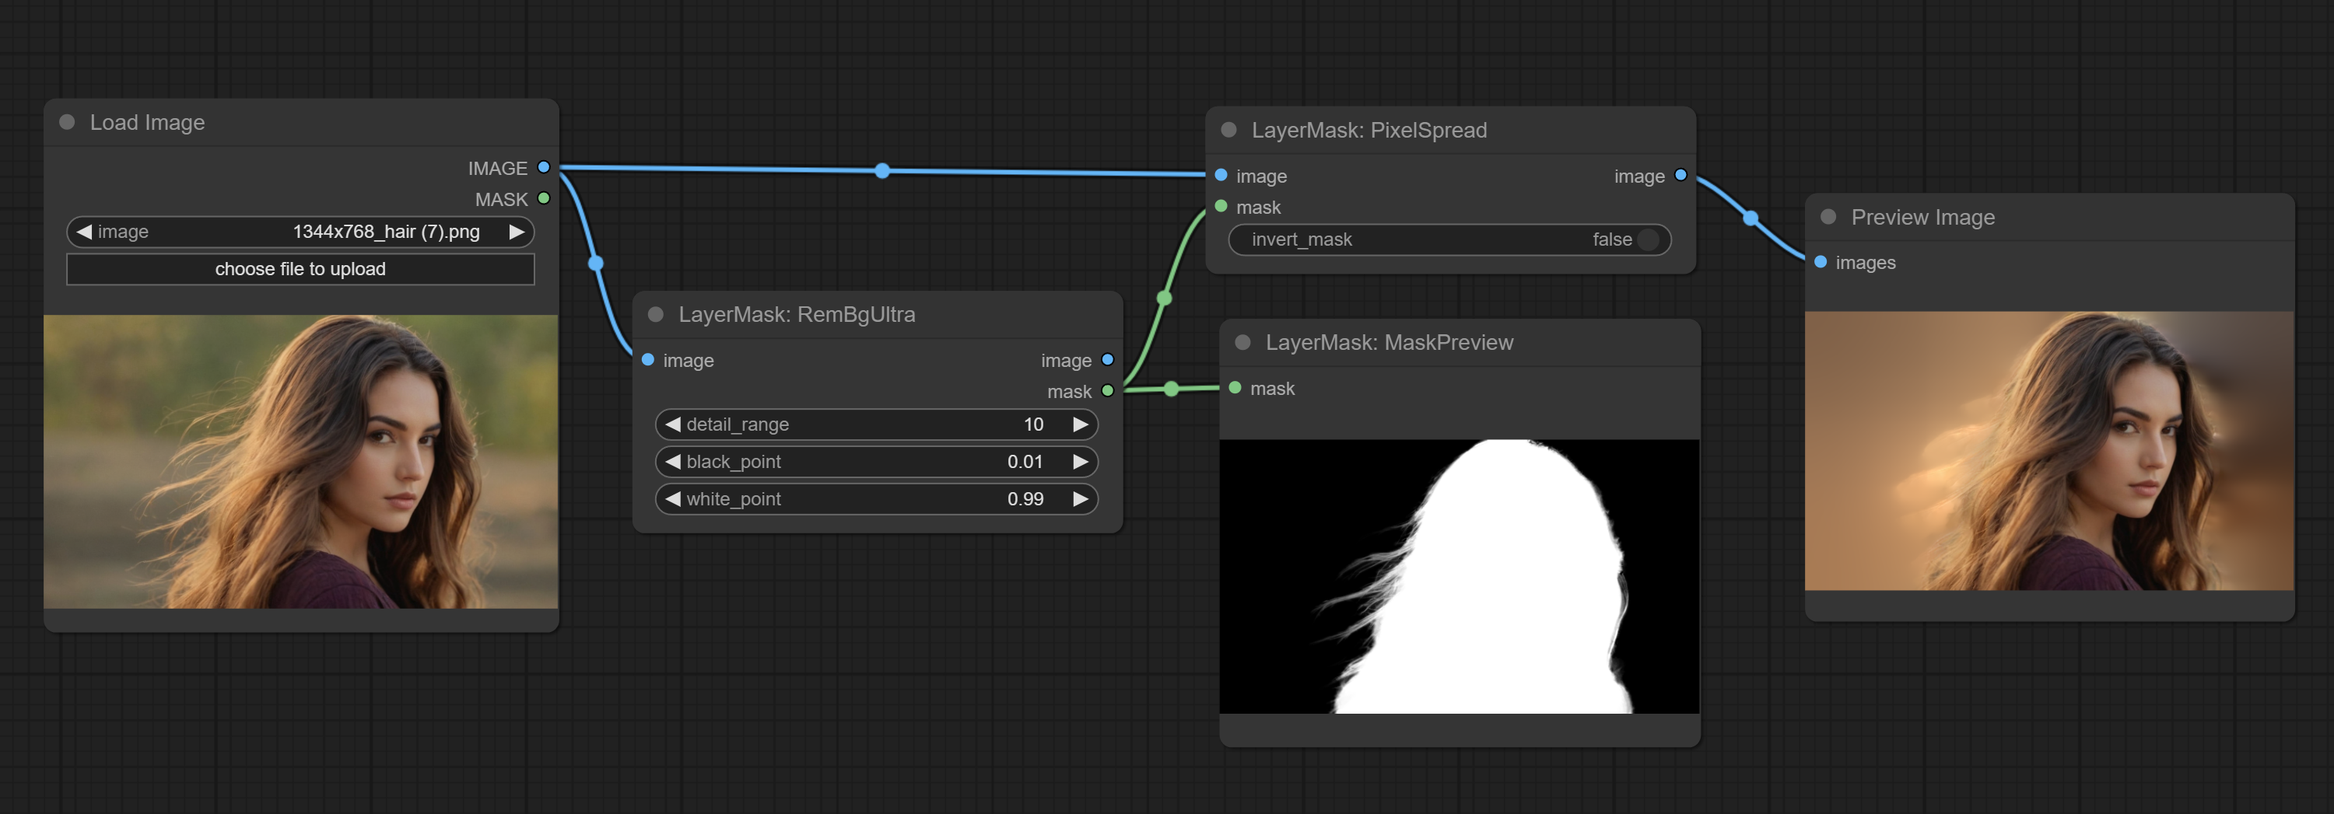
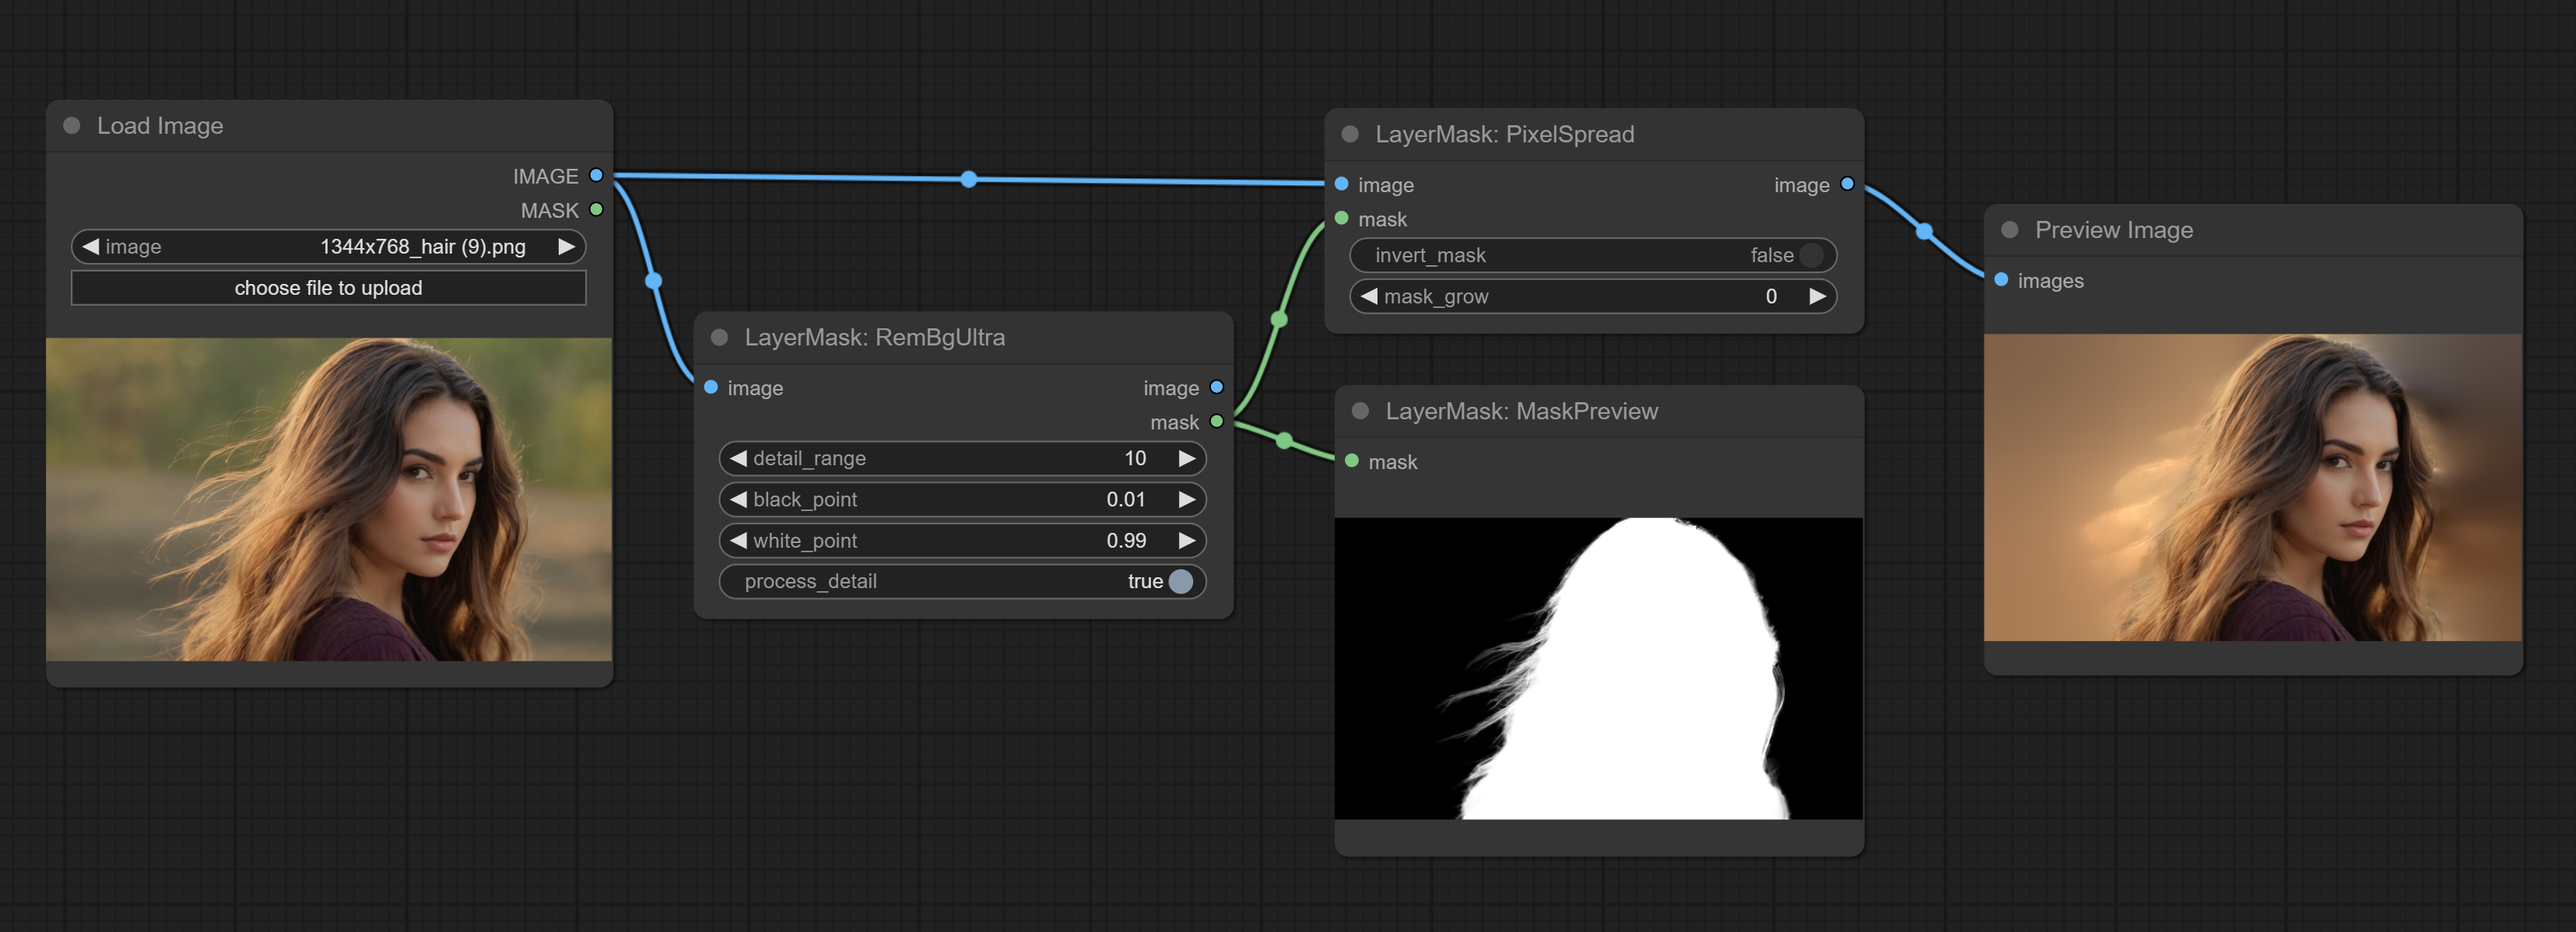
update RemBgUltra and PixelSpread nodes

Changed region(s): [[0.0, 0.1223, 0.992, 0.8863], [0.682, 0.1834, 0.744, 0.2445], [0.0, 0.1223, 0.093, 0.1834]]

diff --git a/py/rembg_ultra.py b/py/rembg_ultra.py
@@ -34,6 +34,7 @@ class RemBgUltra:
                 "detail_range": ("INT", {"default": 8, "min": 0, "max": 256, "step": 1}),
                 "black_point": ("FLOAT", {"default": 0.01, "min": 0.01, "max": 0.98, "step": 0.01}),
                 "white_point": ("FLOAT", {"default": 0.99, "min": 0.02, "max": 0.99, "step": 0.01}),
+                "process_detail": ("BOOLEAN", {"default": True}),
             },
             "optional": {
             }
@@ -44,7 +45,7 @@ class RemBgUltra:
     FUNCTION = "rembg_ultra"
     CATEGORY = '😺dzNodes/LayerMask'
   
-    def rembg_ultra(self, image, detail_range, black_point, white_point):
+    def rembg_ultra(self, image, detail_range, black_point, white_point, process_detail):
 
         rmbgmodel = load_model()
         orig_image = tensor2pil(image).convert('RGB')
@@ -64,19 +65,20 @@ class RemBgUltra:
         result = (result-mi)/(ma-mi)
         im_array = (result*255).cpu().data.numpy().astype(np.uint8)
         _mask = Image.fromarray(np.squeeze(im_array)).convert('L')
-        # ultra edge process
-        d = detail_range * 2 + 1
-        i_dup = copy.deepcopy(image.cpu().numpy().astype(np.float64))
-        a_dup = copy.deepcopy(pil2tensor(_mask.convert('RGB')).cpu().numpy().astype(np.float64))
-        for index, img in enumerate(i_dup):
-            trimap = a_dup[index][:,:,0] # convert to single channel
-            if detail_range > 0:
-                trimap = cv2.GaussianBlur(trimap, (d, d), 0)
-            trimap = fix_trimap(trimap, black_point, white_point)
-            alpha = estimate_alpha_cf(img, trimap, laplacian_kwargs={"epsilon": 1e-6},
-                                      cg_kwargs={"maxiter": 500})
-            a_dup[index] = np.stack([alpha, alpha, alpha], axis=-1)  # convert back to rgb
-        _mask = tensor2pil(torch.from_numpy(a_dup.astype(np.float32))) # alpha
+        if process_detail:
+            # ultra edge process
+            d = detail_range * 2 + 1
+            i_dup = copy.deepcopy(image.cpu().numpy().astype(np.float64))
+            a_dup = copy.deepcopy(pil2tensor(_mask.convert('RGB')).cpu().numpy().astype(np.float64))
+            for index, img in enumerate(i_dup):
+                trimap = a_dup[index][:,:,0] # convert to single channel
+                if detail_range > 0:
+                    trimap = cv2.GaussianBlur(trimap, (d, d), 0)
+                trimap = fix_trimap(trimap, black_point, white_point)
+                alpha = estimate_alpha_cf(img, trimap, laplacian_kwargs={"epsilon": 1e-6},
+                                          cg_kwargs={"maxiter": 500})
+                a_dup[index] = np.stack([alpha, alpha, alpha], axis=-1)  # convert back to rgb
+            _mask = tensor2pil(torch.from_numpy(a_dup.astype(np.float32))) # alpha
         ret_image = RGB2RGBA(orig_image, _mask.convert('L'))
         return (pil2tensor(ret_image), image2mask(_mask),)
 

diff --git a/py/pixel_spread.py b/py/pixel_spread.py
@@ -14,6 +14,7 @@ class PixelSpread:
             "required": {
                 "image": ("IMAGE", ),  #
                 "invert_mask": ("BOOLEAN", {"default": False}),  # 反转mask
+                "mask_grow": ("INT", {"default": 0, "min": -999, "max": 999, "step": 1}),
             },
             "optional": {
                 "mask": ("MASK",),  #
@@ -26,15 +27,19 @@ class PixelSpread:
     CATEGORY = '😺dzNodes/LayerMask'
     OUTPUT_NODE = True
 
-    def pixel_spread(self, image, invert_mask, mask=None):
+    def pixel_spread(self, image, invert_mask, mask_grow, mask=None):
         _image = tensor2pil(image)
         if _image.mode == 'RGBA':
             _mask = _image.split()[-1]
+            if mask_grow != 0:
+                _mask = expand_mask(image2mask(_mask), mask_grow, 0)  # 扩张，模糊
         else:
             _mask = Image.new('L', _image.size, 'white')
         if mask is not None:
             if invert_mask:
                 mask = 1 - mask
+            if mask_grow != 0:
+                _mask = expand_mask(mask, mask_grow, 0)  # 扩张，模糊
             _mask = mask2image(mask).convert('L')
         image = pil2tensor(_image.convert('RGB'))
         _mask = _mask.convert('RGB')

diff --git a/README.MD b/README.MD
@@ -575,6 +575,7 @@ Node options:
 * detail_range: Edge detail range.
 * black_point: Edge black sampling threshold.
 * white_point: Edge white sampling threshold.
+* process_detail: Set to false here will skip edge processing to save runtime.
 
 ### <a id="table1">PixelSpread</a>
 Pixel expansion preprocessing on the masked edge of an image can effectively improve the edges of image synthesis.
@@ -583,6 +584,7 @@ Pixel expansion preprocessing on the masked edge of an image can effectively imp
 Node options:  
 ![image](image/pixel_spread_node.png)
 * invert_mask: Whether to reverse the mask.
+* mask_grow: Mask expansion amplitude.
 
 
 
